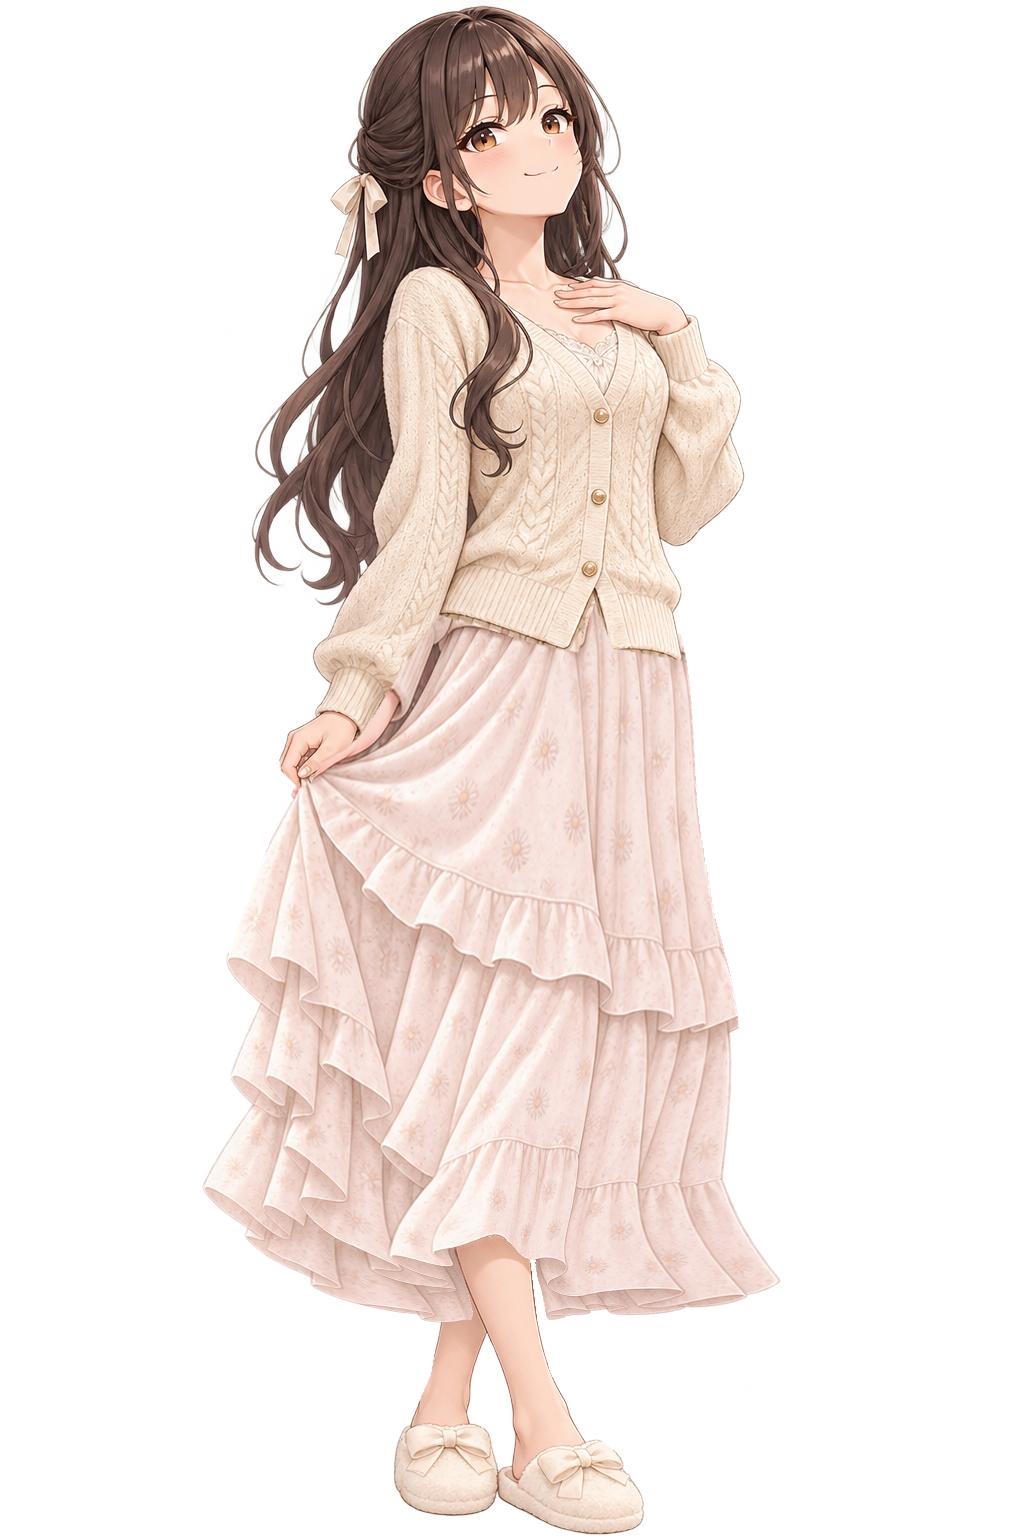
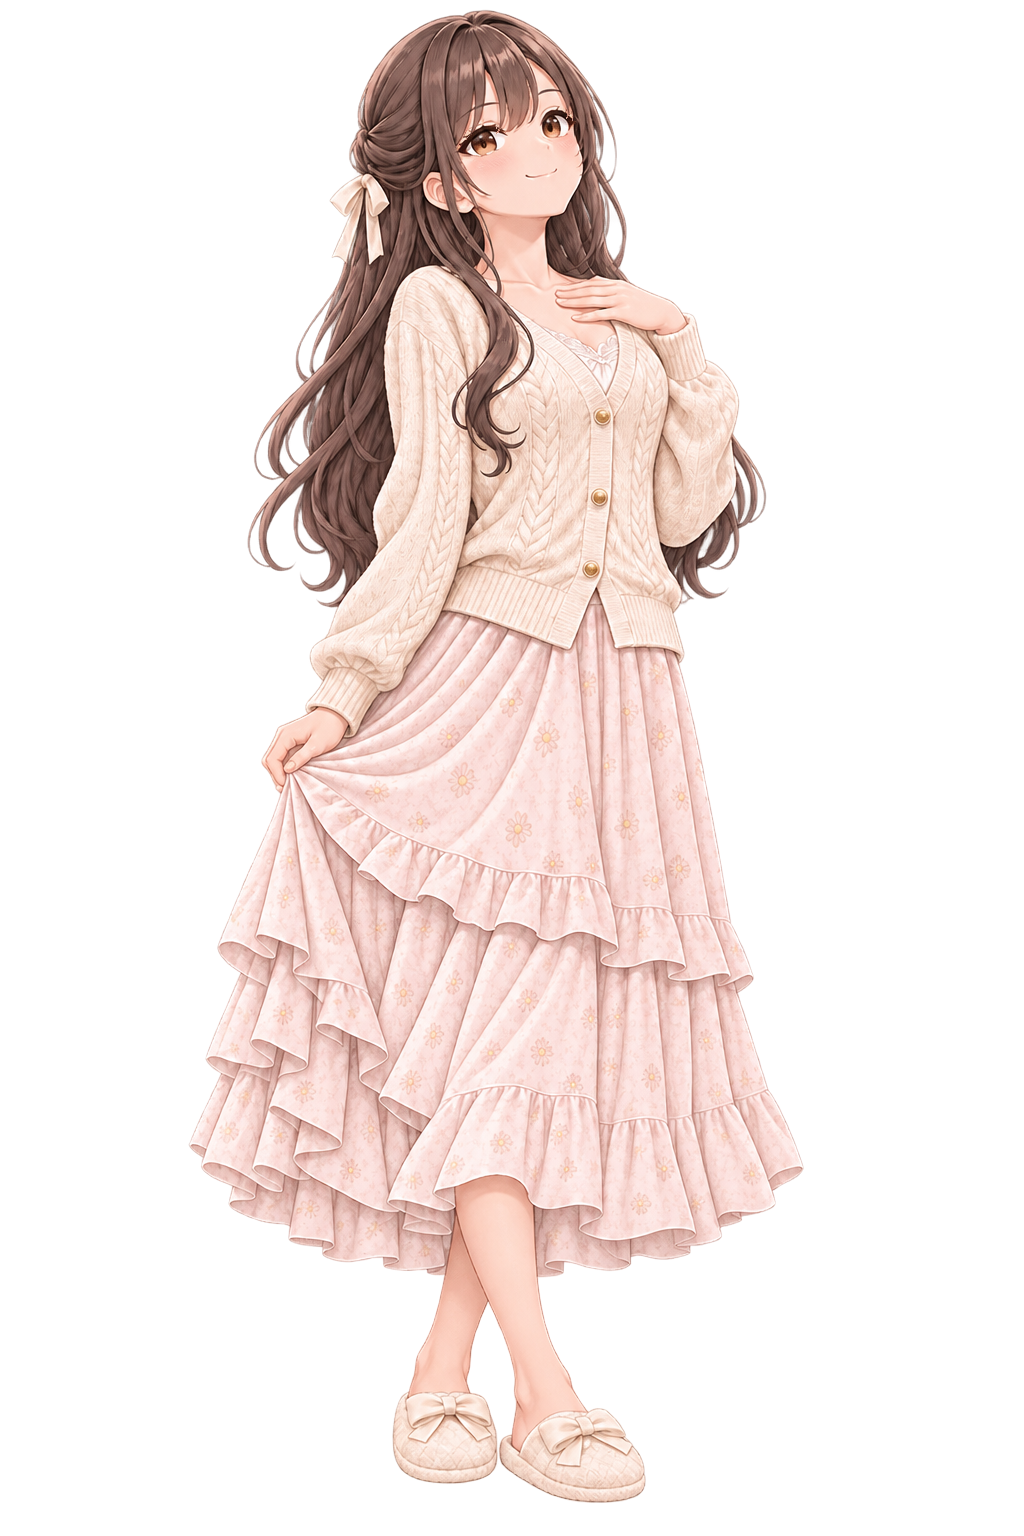
Update Mio proud artwork and synchronize framing

Changed region(s): [[0.1875, 0.0, 0.7812, 1.0]]

diff --git a/mio/about/index.html b/mio/about/index.html
@@ -364,8 +364,8 @@
                       <button
                         type="button"
                         data-expression="proud"
-                        data-expression-src="../../asset/mio_illustration_live_proud_open.png?v=4165317fad4c"
-                        data-expression-closed="../../asset/mio_illustration_live_proud_closed.png?v=4b282346f5a8"
+                        data-expression-src="../../asset/mio_illustration_live_proud_open.png?v=c295b3532637"
+                        data-expression-closed="../../asset/mio_illustration_live_proud_closed.png?v=49da9258a3cc"
                         data-expression-width="1024" data-expression-height="1536"
                         data-expression-alt="Mio proud expression"
                         aria-pressed="false"
